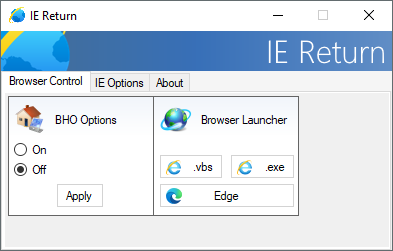
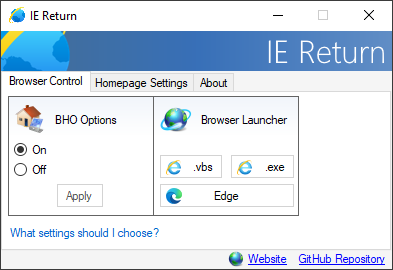
Updated to 2.0.0

Changed region(s): [[0.0, 0.0, 1.0, 1.0], [0.0, 0.5578, 0.7634, 0.8924], [0.7023, 0.0558, 0.7328, 0.0837]]

diff --git a/ier.html b/ier.html
@@ -122,7 +122,7 @@
         </tr>
         <tr>
             <td width="900px">
-                <img src="ier.png" style="display: block; margin-left: auto; margin-right: auto;"><p class="normaltext" align="center"><i>IE Return 1.3.0 in Windows 10, Browser Control tab shown</i></p>
+                <img src="ier.png" style="display: block; margin-left: auto; margin-right: auto;"><p class="normaltext" align="center"><i>IE Return 2.0.0 in Windows 10, Browser Control tab shown</i></p>
             </td>
         </tr>
         <tr>
@@ -141,7 +141,7 @@
             <td colspan=2>
                 <p class="headersmall" style="padding-top: 10px;">Launch and set everything you couldn't</p>
                 <p class="normaltext">IE Return utilises several ways to launch the old browser. For older Windows 10 versions (prior to 21H2) you just need to disable IEToEdge Browser Helper Object (BHO) module (controlled through Windows Registry) and then launch IE as an executable file. In newer versions of Windows 10 (since 21H2) and Windows 11, where Microsoft changed the ieframe.dll file, the browser is not accessible as an executable. However, there is a simple trick: just launch the browser through a VBScript, this option is available in IE&nbsp;Return as well.</p>
-                <p class="normaltext">Not only can you launch Internet Explorer, but set it up as well. Microsoft removed the ability to set up homepage in <i>Internet Options</i> applet of Control Panel. IE Return brings this feature back, with the entire functionality and appearence ported from the aforementioned applet. You can enter the url of the page and set it, use the default website (MSN) or use the blank tab. For ease of use, you can launch the Internet Options applet from the utility as well.</p>
+                <p class="normaltext">Not only can you launch Internet Explorer, but set it up as well. Microsoft removed the ability to set up homepage in <i>Internet Options</i> applet of Control Panel. IE Return brings this feature back, with the entire functionality and appearence ported from the aforementioned applet. You can enter the url of the page and set it, use the default website (MSN) or use the blank tab. Also, there is an option to set how will the browser launch: either with tabs from previous session, or with home page. For ease of use, you can launch the Internet Options applet from the utility as well.</p>
             </td>
         </tr>
         <tr>
@@ -155,8 +155,8 @@
         <tr>
             <td width="900px">
                 <div style="position: relative; text-align: center; color: white;">
-                    <a href="https://github.com/JackPomiSoftware/IEReturn/releases/download/1.3.0/IE.Return.v.1.3.0.zip" download><img src="button_main.png" width="300px" style="display: block;margin-left: auto; margin-right: auto;"></a>
-                    <a href="https://github.com/JackPomiSoftware/IEReturn/releases/download/1.3.0/IE.Return.v.1.3.0.zip" download style="text-decoration: none"><div style="position: absolute; top: 25%; left: 50%; transform: translate(-50%, -50%);"><p class="downloadtext"><strong>Download IE Return 1.3.0</strong></p></div></a>
+                    <a href="https://github.com/JackPomiSoftware/IEReturn/releases/download/2.0.0/IE.Return.v.2.0.0.zip" download><img src="button_main.png" width="300px" style="display: block;margin-left: auto; margin-right: auto;"></a>
+                    <a href="https://github.com/JackPomiSoftware/IEReturn/releases/download/2.0.0/IE.Return.v.2.0.0.zip" download style="text-decoration: none"><div style="position: absolute; top: 25%; left: 50%; transform: translate(-50%, -50%);"><p class="downloadtext"><strong>Download IE Return 2.0.0</strong></p></div></a>
                     <p class="smalltext" style="text-align: center;">for Windows 11 and Windows 10.</p>
                     <p class="smalltext" style="text-align: center;"><a href="https://github.com/JackPomiSoftware/IEReturn">View on GitHub</a></p>
                 </div>
